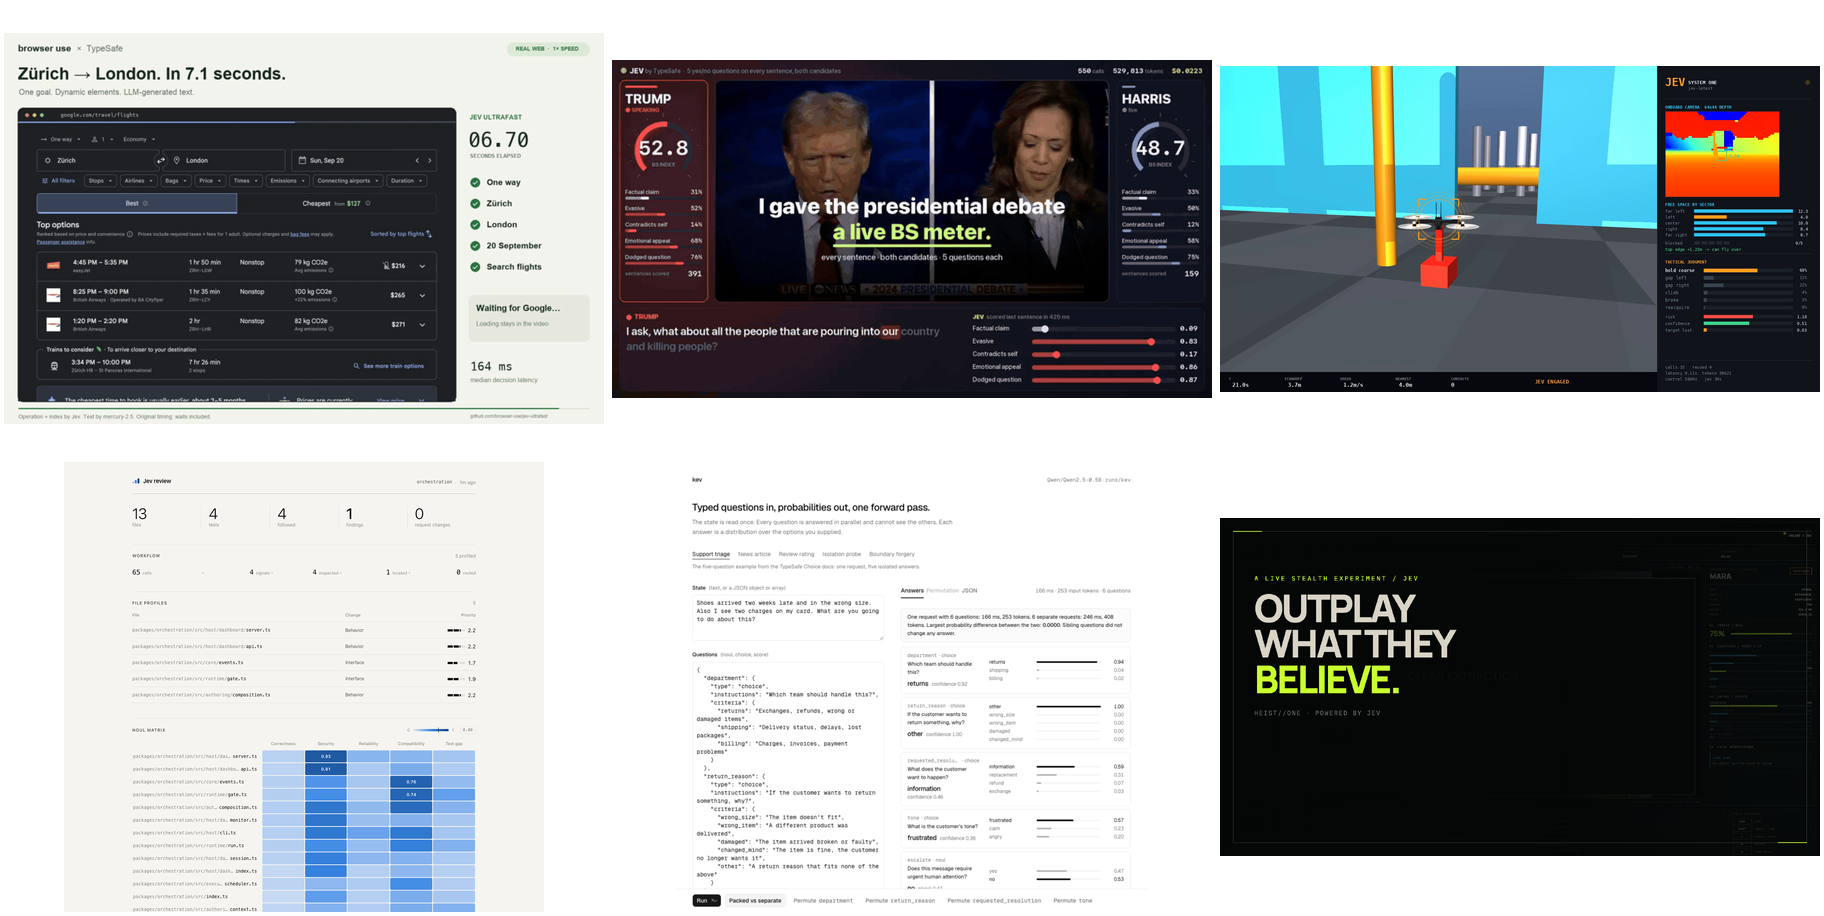
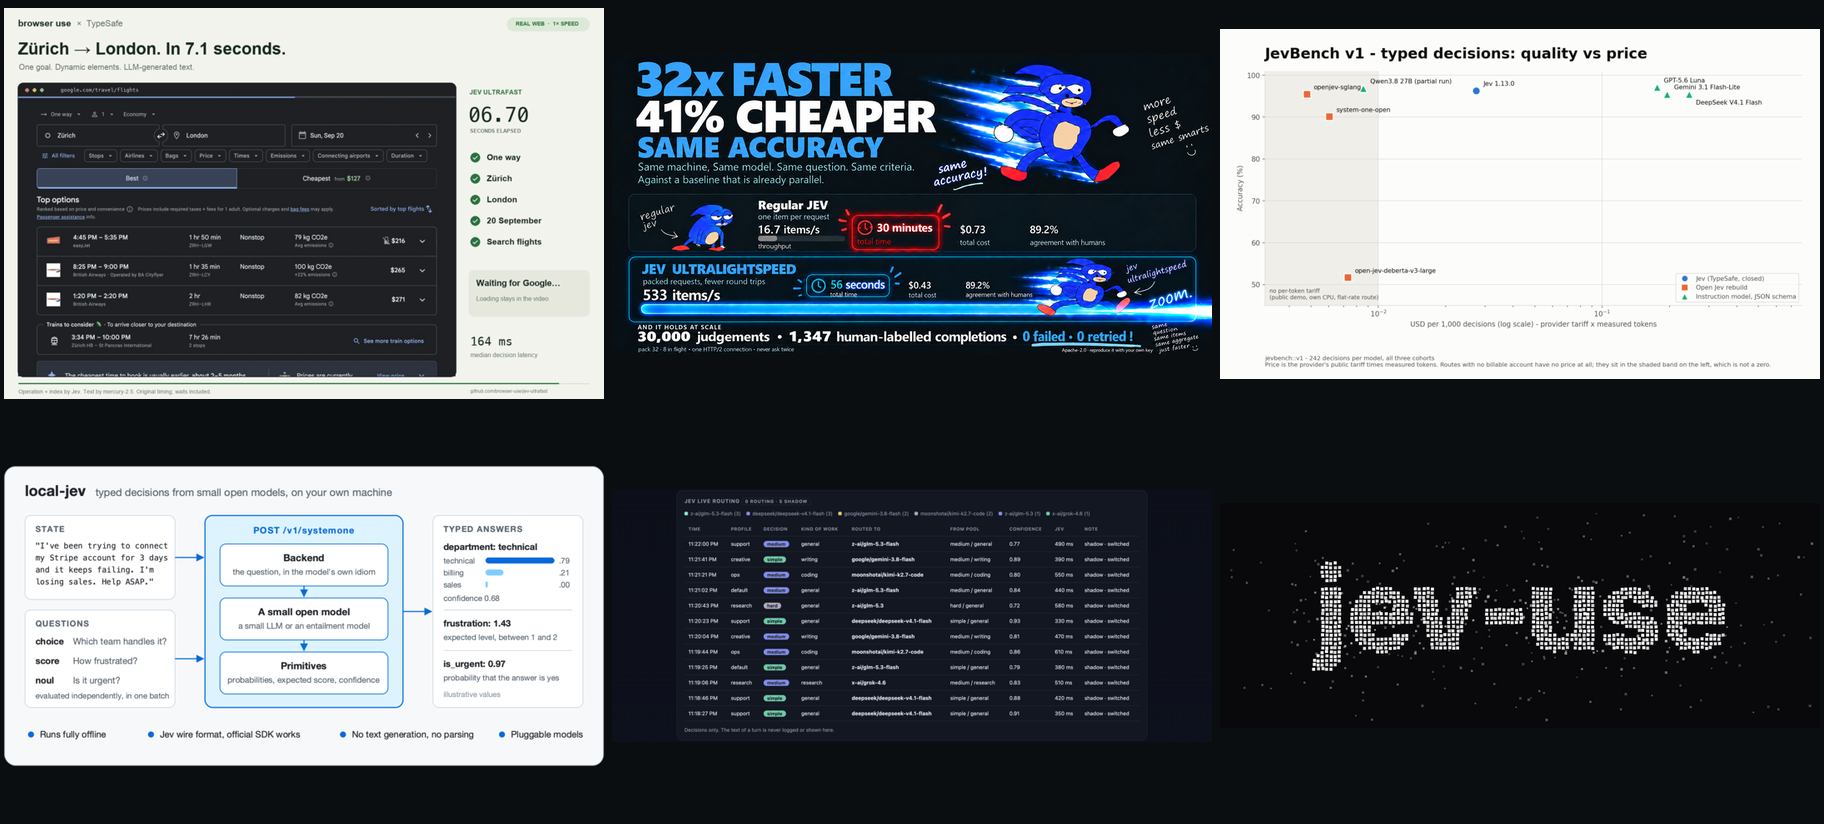
Swap the gallery for what people actually run
Out: jevmeter, jev-drone, jev-review, kev, heist-one. In: jev-ultralightspeed,
JevBench, local-jev, hermes-jev-skills and jev-use, with jev-ultrafast kept.
Images copied from each project under its own license, rows added to
media/sources.md, and hero.png restitched from the new six.

diff --git a/media/sources.md b/media/sources.md
@@ -5,27 +5,27 @@ Most files in this directory are copied from the project they illustrate, under 
 | File | Project | License | Original path |
 | --- | --- | --- | --- |
 | `jev-ultrafast.png` | [browser-use/jev-ultrafast](https://github.com/browser-use/jev-ultrafast) | MIT | one frame of `docs/demo.gif` |
-| `jevmeter.png` | [ChetasLua/jevmeter](https://github.com/ChetasLua/jevmeter) | MIT | one frame of `docs/demo-hook.gif` |
-| `jev-drone.png` | [RomanSlack/jev-drone](https://github.com/RomanSlack/jev-drone) | MIT | `docs/chase.png` |
-| `jev-review.png` | [devagrawal09/jev-review](https://github.com/devagrawal09/jev-review) | MIT | `docs/dashboard.png` |
-| `heist-one.png` | [AbdelStark/heist-one](https://github.com/AbdelStark/heist-one) | MIT | `apps/video/out/heist-one-thumbnail.png` |
 | `heist-one-gameplay.png` | [AbdelStark/heist-one](https://github.com/AbdelStark/heist-one) | MIT | one frame of `apps/video/public/gameplay-live.mp4` |
 | `pi-warden.png` | [DevMortimer/pi-warden](https://github.com/DevMortimer/pi-warden) | MIT | `docs/preview.png` |
 | `mobile-jev.jpg` | [droidrun/mobile-jev](https://github.com/droidrun/mobile-jev) | MIT | `docs/media/uber-demo.jpg` |
 | `semif.png` | [TheoLeeCJ/SemIf](https://github.com/TheoLeeCJ/SemIf) | MIT | `assets/semif-no-waitlist.png` |
 | `jevcal.png` | [abhixhek/jevcal](https://github.com/abhixhek/jevcal) | MIT | `docs/report.png` |
 | `typesafe-ai-playground.jpg` | [TypeSafeAI/typesafe-playground](https://github.com/TypeSafeAI/typesafe-playground) | MIT | `docs/screenshots/comparison.jpg`, copied while the repo was under BunsDev |
-| `kev.png` | [jaredpalmer/kev](https://github.com/jaredpalmer/kev) | Apache-2.0 | `docs/playground.png` |
 | `janus.png` | [FirasSX914/Janus](https://github.com/FirasSX914/Janus) | MIT | one frame of `results/figures/janus_demo.gif` |
 | `jev-reviewer.png` | [choxos/jev-reviewer](https://github.com/choxos/jev-reviewer) | MIT | one frame of `documentation/tour.gif` |
 | `jev-guard.jpg` | [leepokai/jev-guard](https://github.com/leepokai/jev-guard) | MIT | `assets/launch-poster.jpg` |
 | `jevibe-check.png` | [sriganesh/jevibe-check](https://github.com/sriganesh/jevibe-check) | MIT | one frame of `docs/jevibecheck.gif` |
 | `jev-trades.png` | [zadescoxp/Jev-Trades](https://github.com/zadescoxp/Jev-Trades) | Apache-2.0 | one frame of `assets/Jev_making_trade.gif` |
 | `jev-axi.png` | [shiftynick/jev-axi](https://github.com/shiftynick/jev-axi) | MIT | one frame of `scripts/demo/safety.gif`, cropped to the terminal text |
+| `jev-ultralightspeed.png` | [collapseindex/jev-ultralightspeed](https://github.com/collapseindex/jev-ultralightspeed) | Apache-2.0 | `docs/infographic.png` |
+| `jevbench.png` | [fstandhartinger/jevbench](https://github.com/fstandhartinger/jevbench) | MIT | `results/charts/quality-cost.png` |
+| `local-jev.png` | [amithgc/local-jev](https://github.com/amithgc/local-jev) | MIT | `docs/assets/hero.png` |
+| `hermes-jev-skills.png` | [kerpopule/hermes-jev-skills](https://github.com/kerpopule/hermes-jev-skills) | MIT | `docs/images/model-routing-dashboard.png`, cropped to the live routing table |
+| `jev-use.png` | [savka777/jev-use](https://github.com/savka777/jev-use) | MIT | `docs/banner.png` |
 | `banner-dark.svg` | this list | CC0 | original work, no external source |
 | `banner-light.svg` | this list | CC0 | original work, no external source |
 | `social-preview.png` | this list | CC0 | original work, no external source |
 
-Copied 2026-09-18 and 2026-09-19, resized to 600 to 800 px wide.
+Copied 2026-09-18, 2026-09-19 and 2026-09-21, resized to 600 to 800 px wide.
 
 `hero.png` is a stitched contact sheet of the six gallery tiles, for sharing the list.

diff --git a/readme.md b/readme.md
@@ -27,13 +27,13 @@ Seventeen seconds of the site; the [full-size MP4](media/awesome-jev-promo.mp4) 
 <table>
   <tr>
     <td align="center"><a href="https://github.com/browser-use/jev-ultrafast"><img src="media/jev-ultrafast.png" width="300" alt="jev-ultrafast booking a flight in 7.1 seconds"><br><sub>jev-ultrafast</sub></a></td>
-    <td align="center"><a href="https://github.com/ChetasLua/jevmeter"><img src="media/jevmeter.png" width="300" alt="jevmeter scoring every sentence of a debate"><br><sub>jevmeter</sub></a></td>
-    <td align="center"><a href="https://github.com/RomanSlack/jev-drone"><img src="media/jev-drone.png" width="300" alt="jev-drone chasing through a course"><br><sub>jev-drone</sub></a></td>
+    <td align="center"><a href="https://github.com/collapseindex/jev-ultralightspeed"><img src="media/jev-ultralightspeed.png" width="300" alt="jev-ultralightspeed: 533 items a second packed, against 16.7 one at a time"><br><sub>jev-ultralightspeed</sub></a></td>
+    <td align="center"><a href="https://github.com/fstandhartinger/jevbench"><img src="media/jevbench.png" width="300" alt="JevBench plotting quality against cost for Jev-class decision models"><br><sub>JevBench</sub></a></td>
   </tr>
   <tr>
-    <td align="center"><a href="https://github.com/devagrawal09/jev-review"><img src="media/jev-review.png" width="300" alt="jev-review dashboard"><br><sub>jev-review</sub></a></td>
-    <td align="center"><a href="https://github.com/jaredpalmer/kev"><img src="media/kev.png" width="300" alt="kev playground: six typed questions answered in one forward pass on a laptop"><br><sub>kev</sub></a></td>
-    <td align="center"><a href="https://github.com/AbdelStark/heist-one"><img src="media/heist-one.png" width="300" alt="heist-one stealth game"><br><sub>heist-one</sub></a></td>
+    <td align="center"><a href="https://github.com/amithgc/local-jev"><img src="media/local-jev.png" width="300" alt="local-jev answering typed questions offline"><br><sub>local-jev</sub></a></td>
+    <td align="center"><a href="https://github.com/kerpopule/hermes-jev-skills"><img src="media/hermes-jev-skills.png" width="300" alt="hermes-jev-skills logging every routing decision with its confidence and latency"><br><sub>hermes-jev-skills</sub></a></td>
+    <td align="center"><a href="https://github.com/savka777/jev-use"><img src="media/jev-use.png" width="300" alt="jev-use driving macOS from the Accessibility tree"><br><sub>jev-use by savka777</sub></a></td>
   </tr>
 </table>
 
